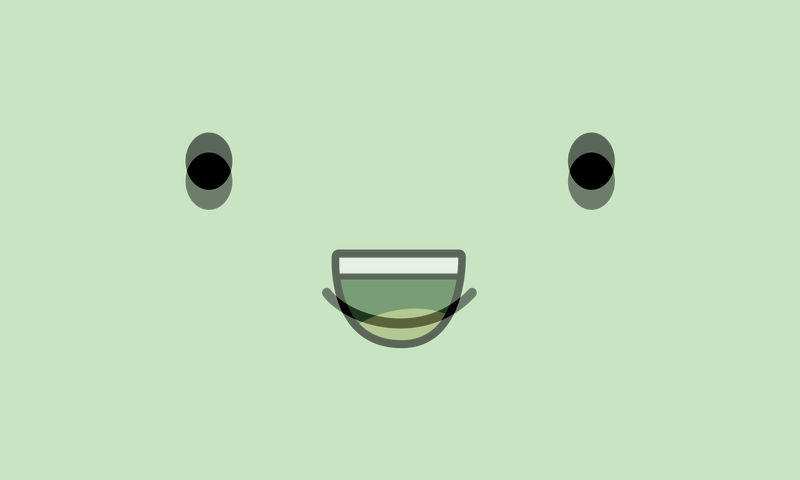
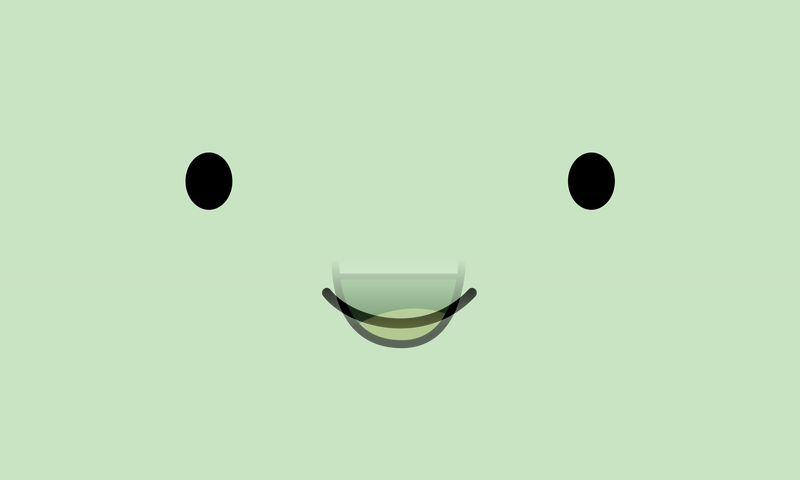
Fix speaking face ghosting, jitter wrap, and add software volume control
- gen_speaking: replace full-frame PIL blend with mouth-zone-only mask
  (top 54% of image always from smile.svg, blend only 54–68% region).
  Eye region is now pixel-identical across all 12 frames — zero ghosting.
- Viseme jitter: remove % num_frames wrap (caused frame 0+jitter→10 jumps);
  clamp with min/max instead. Reduce jitter range from ±2 to ±1.
- Add VOLUME scalar (default 0.75) to core/config.py. Applied in both
  _piper_to_aplay_loop and play_audio_with_sync before writing to aplay,
  measuring lip-sync RMS from the unscaled signal first. aplay on plughw
  bypasses PulseAudio so Gnome volume has no effect — edit VOLUME instead.

Changed region(s): [[0.4062, 0.5, 0.5938, 0.6562], [0.6875, 0.25, 0.7812, 0.4375], [0.2188, 0.25, 0.3125, 0.4375]]

diff --git a/agent_hailo.py b/agent_hailo.py
@@ -38,7 +38,7 @@ from openwakeword.model import Model
 from core.llm import Brain
 from core.tts import play_audio_on_hardware
 from core.stt import transcribe_audio
-from core.config import MIC_DEVICE_INDEX, MIC_SAMPLE_RATE, WAKE_WORD_MODEL, WAKE_WORD_THRESHOLD, ALSA_DEVICE
+from core.config import MIC_DEVICE_INDEX, MIC_SAMPLE_RATE, WAKE_WORD_MODEL, WAKE_WORD_THRESHOLD, ALSA_DEVICE, VOLUME
 
 # =========================================================================
 # 1. HARDWARE CONFIGURATION
@@ -426,9 +426,9 @@ class BotGUI:
                     # We cycle a 'jitter' offset every few frames to simulate shifting phonemes
                     # even when the volume is relatively steady.
                     if int(time.time() * 20) % 2 == 0:
-                        self.mouth_viseme_jitter = random.randint(-2, 2)
-                        
-                    idx = (base_idx + self.mouth_viseme_jitter) % num_frames
+                        self.mouth_viseme_jitter = random.randint(-1, 1)
+
+                    idx = base_idx + self.mouth_viseme_jitter
                     self.current_frame = min(num_frames - 1, max(0, idx))
                 else:
                     self.current_frame = 0 # Closed
@@ -663,21 +663,24 @@ class BotGUI:
                 if not raw_chunk:
                     break
 
+                # Lip-sync from unscaled signal, then apply software volume
+                audio_chunk = np.frombuffer(raw_chunk, dtype=np.int16)
+                vol = np.sqrt(np.mean(audio_chunk.astype(np.float32)**2))
+                if self.current_state == BotStates.SPEAKING:
+                    self.mouth_open = min(60, vol / 25)
+
+                if VOLUME != 1.0:
+                    scaled = np.clip(audio_chunk.astype(np.float32) * VOLUME, -32768, 32767).astype(np.int16)
+                    write_chunk = scaled.tobytes()
+                else:
+                    write_chunk = raw_chunk
+
                 try:
-                    proc.stdin.write(raw_chunk)
+                    proc.stdin.write(write_chunk)
                     proc.stdin.flush()
                 except (BrokenPipeError, OSError) as e:
                     print(f"[DEBUG] aplay write error: {e}")
                     break
-
-                # volume analysis on the chunk we just fed to the speaker
-                audio_chunk = np.frombuffer(raw_chunk, dtype=np.int16)
-                vol = np.sqrt(np.mean(audio_chunk.astype(np.float32)**2))
-
-                # Scale volume for better mouth movement sensitivity
-                if self.current_state == BotStates.SPEAKING:
-                    # Increased sensitivity (vol/25 instead of 100)
-                    self.mouth_open = min(60, vol / 25)
 
                 # Basic sync: sleep to match playback rate
                 chunk_idx += 1
@@ -787,18 +790,24 @@ class BotGUI:
             if start_time is None:
                 start_time = time.time()
 
-            try:
-                self._tts_aplay.stdin.write(raw_chunk)
-                self._tts_aplay.stdin.flush()
-            except (BrokenPipeError, OSError) as e:
-                print(f"[TTS] aplay write error: {e}")
-                break
-
-            # Lip-sync: map RMS volume → mouth_open
+            # Lip-sync from unscaled signal, then apply software volume before playback
             audio_chunk = np.frombuffer(raw_chunk, dtype=np.int16)
             vol = np.sqrt(np.mean(audio_chunk.astype(np.float32) ** 2))
             if self.current_state == BotStates.SPEAKING:
                 self.mouth_open = min(60, vol / 25)
+
+            if VOLUME != 1.0:
+                scaled = np.clip(audio_chunk.astype(np.float32) * VOLUME, -32768, 32767).astype(np.int16)
+                write_chunk = scaled.tobytes()
+            else:
+                write_chunk = raw_chunk
+
+            try:
+                self._tts_aplay.stdin.write(write_chunk)
+                self._tts_aplay.stdin.flush()
+            except (BrokenPipeError, OSError) as e:
+                print(f"[TTS] aplay write error: {e}")
+                break
 
             # Pace writes to match real-time playback (natural back-pressure)
             chunk_idx += 1

diff --git a/generate_faces.py b/generate_faces.py
@@ -189,16 +189,26 @@ def gen_idle(d="faces/idle"):
         _save(img, d, i)
 
 def gen_speaking(d="faces/speaking"):
-    # 12 frames ordered closed→open; PIL-blend gives smooth intermediate
-    # mouth positions that map naturally to mouth_ema (0=silent, 11=max vol).
+    # 12 frames ordered closed→open.  Only the mouth zone is blended so the
+    # eyes (from smile.svg) stay perfectly stable — no ghosting from the two
+    # different SVGs having eyes at slightly different positions.
     img_c = _svg_render("smile.svg")
     img_o = _svg_render("open mouth.svg")
     arr_c = np.array(img_c).astype(float)
     arr_o = np.array(img_o).astype(float)
+
+    # Vertical gradient mask: 0 = use closed face, 1 = use open mouth.
+    # Transition from 54 % to 68 % of image height (below eyes, into mouth).
+    blend_start = int(OUT_H * 0.54)
+    blend_end   = int(OUT_H * 0.68)
+    ys   = np.arange(OUT_H)
+    ramp = np.clip((ys - blend_start) / (blend_end - blend_start), 0.0, 1.0)
+    mask = ramp[:, None, None]  # (H, 1, 1) → broadcasts over (H, W, 3)
+
     factors = [0.0, 0.0, 0.10, 0.22, 0.38, 0.55, 0.70, 0.82, 0.92, 1.0, 1.0, 1.0]
     os.makedirs(d, exist_ok=True)
     for i, f in enumerate(factors, 1):
-        blended = (arr_c * (1 - f) + arr_o * f).astype(np.uint8)
+        blended = (arr_c * (1 - mask * f) + arr_o * (mask * f)).astype(np.uint8)
         _save(Image.fromarray(blended), d, i)
 
 def gen_thinking(d="faces/thinking"):

diff --git a/core/config.py b/core/config.py
@@ -129,4 +129,9 @@ def find_audio_devices():
 
 MIC_DEVICE_INDEX, ALSA_DEVICE = find_audio_devices()
 
+# Software volume scalar (0.0–1.0).  aplay on plughw bypasses PulseAudio so
+# the Gnome volume slider has no effect — adjust this value to change BMO's
+# output level instead.  Default 0.75 leaves headroom to avoid clipping.
+VOLUME = 0.75
+
 
